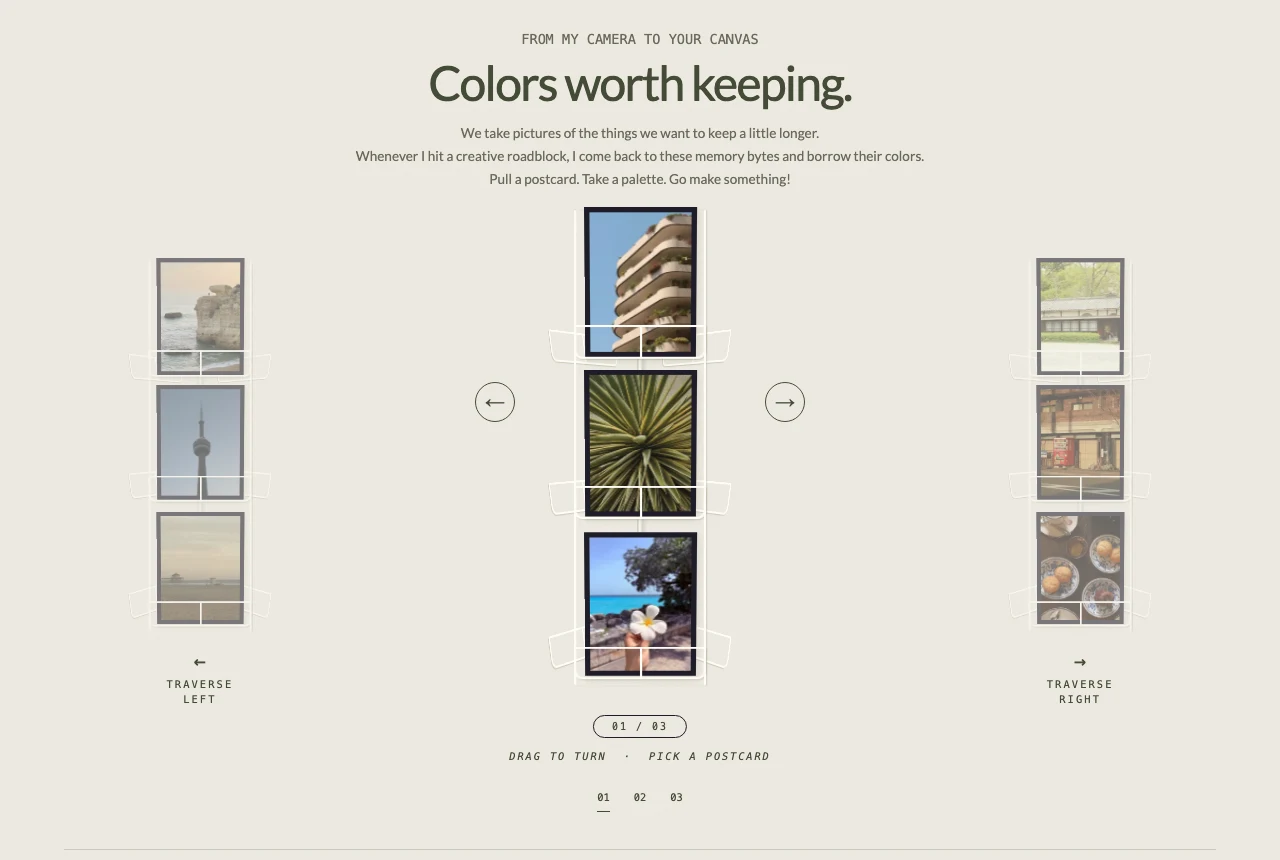
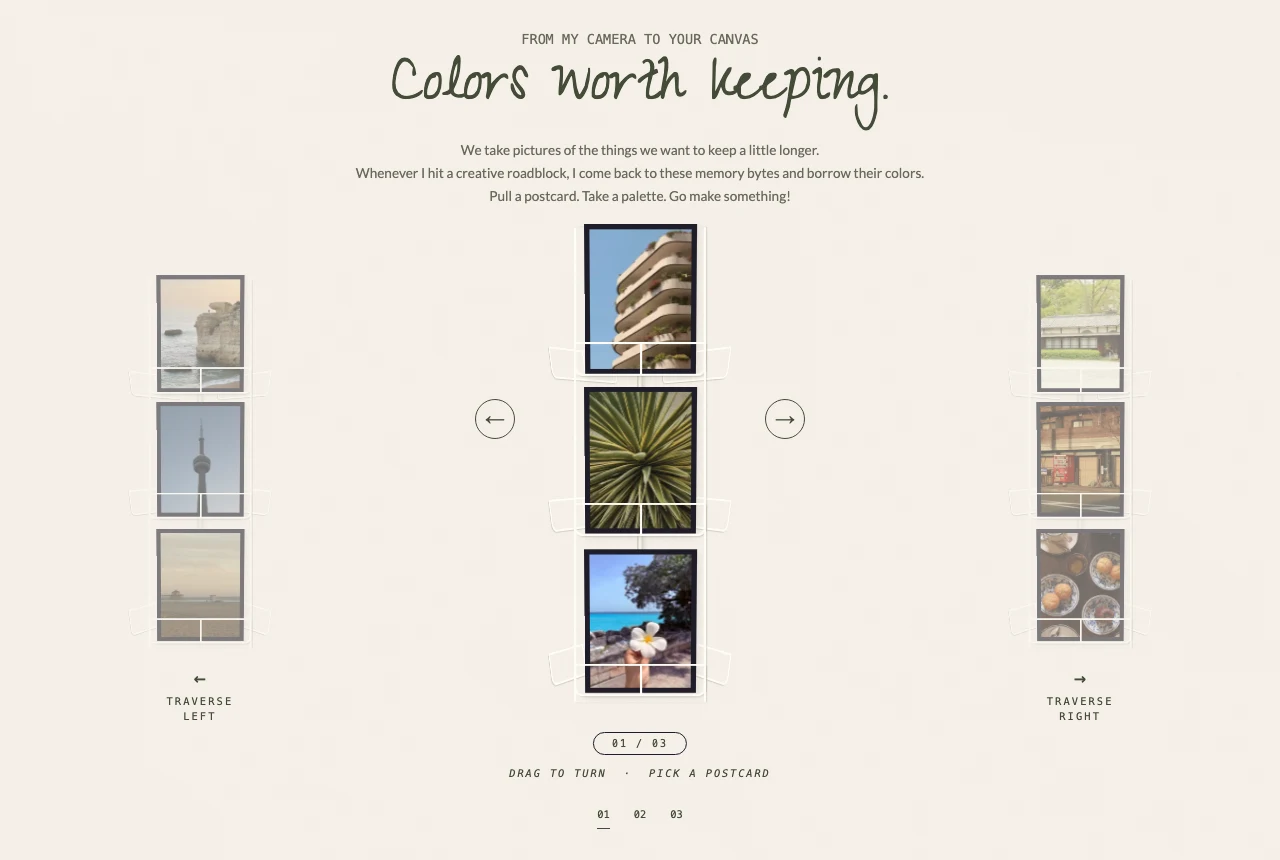
Warmer page background and self-hosted Zeyada for the title

diff --git a/src/styles/intro.css b/src/styles/intro.css
@@ -3,9 +3,11 @@
   margin: 31px 20px 0;
 }
 .intro h1 {
-  font-size: clamp(1.8rem, 4.08vw, 3rem);
-  letter-spacing: -1.7px;
-  font-weight: 500;
+  font-family: var(--font-display);
+  font-size: clamp(2.8rem, 6.4vw, 4.6rem);
+  letter-spacing: 0;
+  font-weight: 400;
+  line-height: 1;
   margin: 0 0 14px;
 }
 .intro > p {
@@ -22,8 +24,7 @@
     margin-top: 30px;
   }
   .intro h1 {
-    font-size: 1.875rem;
-    letter-spacing: -1px;
+    font-size: 3rem;
   }
   .intro > p {
     font-size: 0.65rem;

diff --git a/src/styles/fonts.css b/src/styles/fonts.css
@@ -31,3 +31,14 @@
     U+0304, U+0308, U+0329, U+2000-206F, U+20AC, U+2122, U+2191, U+2193, U+2212,
     U+2215, U+FEFF, U+FFFD;
 }
+@font-face {
+  font-family: Zeyada;
+  font-style: normal;
+  font-weight: 400;
+  font-display: swap;
+  src: url(../fonts/zeyada-normal-400.woff2) format("woff2");
+  unicode-range:
+    U+0000-00FF, U+0131, U+0152-0153, U+02BB-02BC, U+02C6, U+02DA, U+02DC,
+    U+0304, U+0308, U+0329, U+2000-206F, U+20AC, U+2122, U+2191, U+2193, U+2212,
+    U+2215, U+FEFF, U+FFFD;
+}

diff --git a/tests/contrast.test.ts b/tests/contrast.test.ts
@@ -13,7 +13,7 @@ const contrast = (foreground: string, background: string) =>
   (luminance(background) + 0.05) / (luminance(foreground) + 0.05);
 
 // Text color against both page backgrounds must meet WCAG AA for body text.
-for (const background of ["#F7F4EC", "#EEEAE1"]) {
+for (const background of ["#F7F4EC", "#F6F1EA"]) {
   test(`accent text on ${background} meets AA (4.5:1)`, () => {
     assert.ok(contrast("#424A35", background) >= 4.5);
   });

diff --git a/src/styles/tokens.css b/src/styles/tokens.css
@@ -1,13 +1,14 @@
 :root {
   /* Color */
   --ink: #424a35;
-  --page: #eeeae1;
+  --page: #f6f1ea;
   --paper: #f7f4ec;
   --wire: #fffef8;
   --night: #1c1a26;
 
   /* Type */
   --font-sans: Lato, "Helvetica Neue", Arial, sans-serif;
+  --font-display: Zeyada, "Bradley Hand", cursive;
   --font-mono: ui-monospace, "SF Mono", Menlo, monospace;
 
   /* Rack geometry */

diff --git a/README.md b/README.md
@@ -58,4 +58,4 @@ Then open http://127.0.0.1:5174. Other scripts: `npm test`, `npm run typecheck`,
 
 ## License
 
-Code is released under the [MIT License](LICENSE). The photographs are © Hoyin Wan, all rights reserved. Lato is used under the SIL Open Font License (`src/fonts/OFL.txt`).
+Code is released under the [MIT License](LICENSE). The photographs are © Hoyin Wan, all rights reserved. Lato and Zeyada are self-hosted under the SIL Open Font License (`src/fonts/OFL-Lato.txt`, `src/fonts/OFL-Zeyada.txt`).
